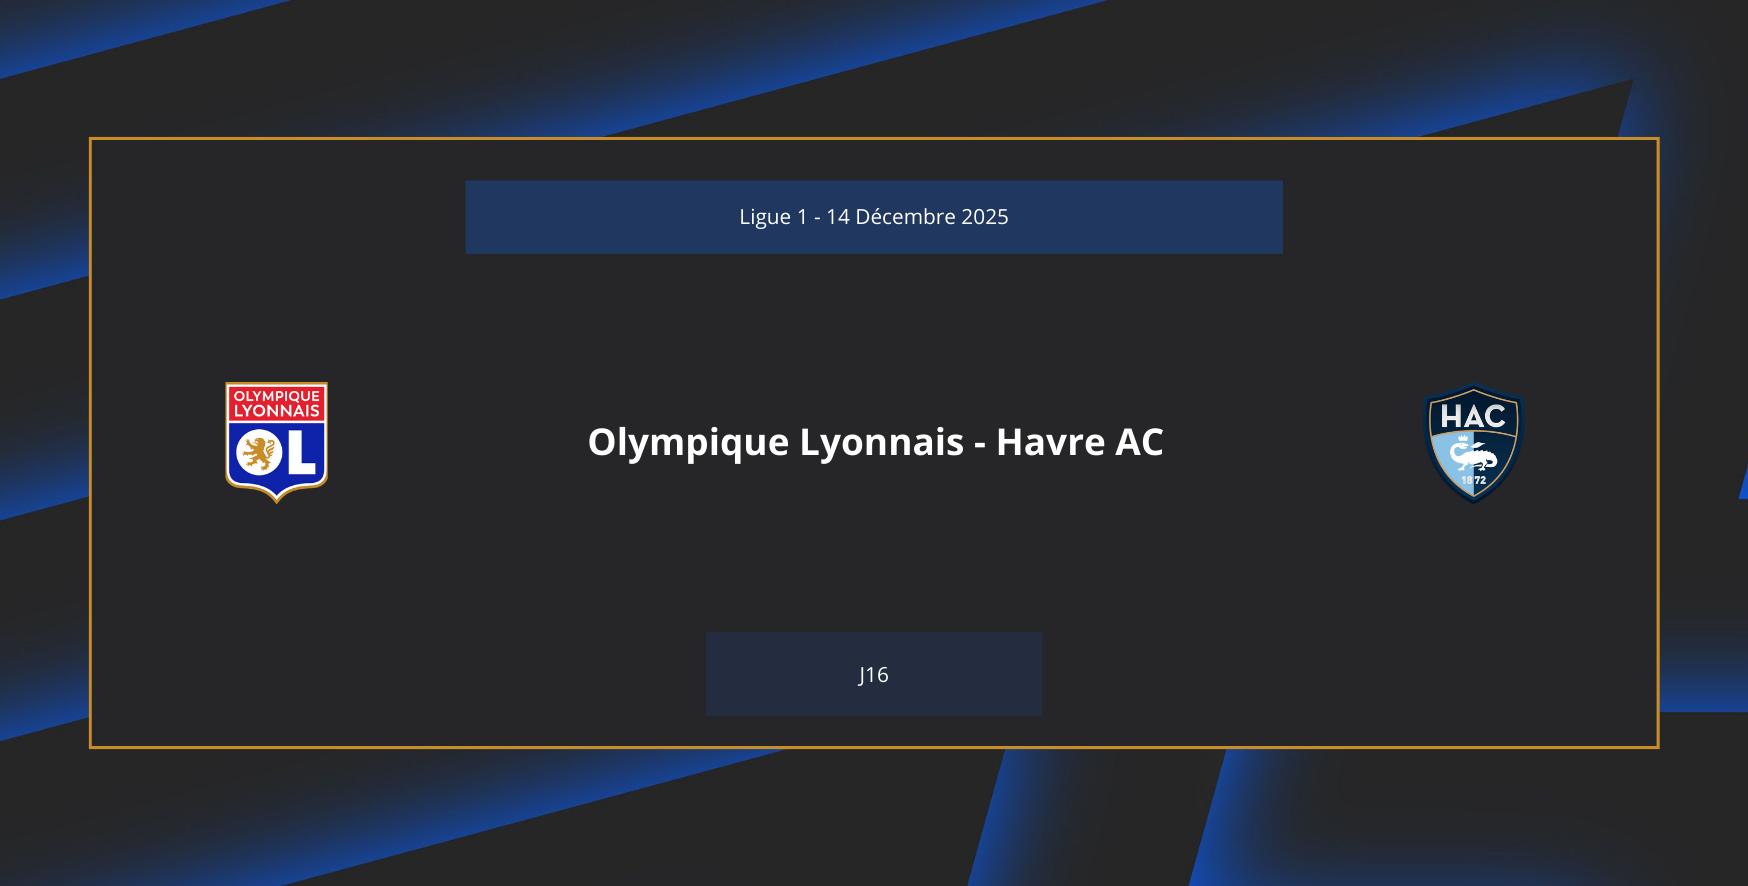
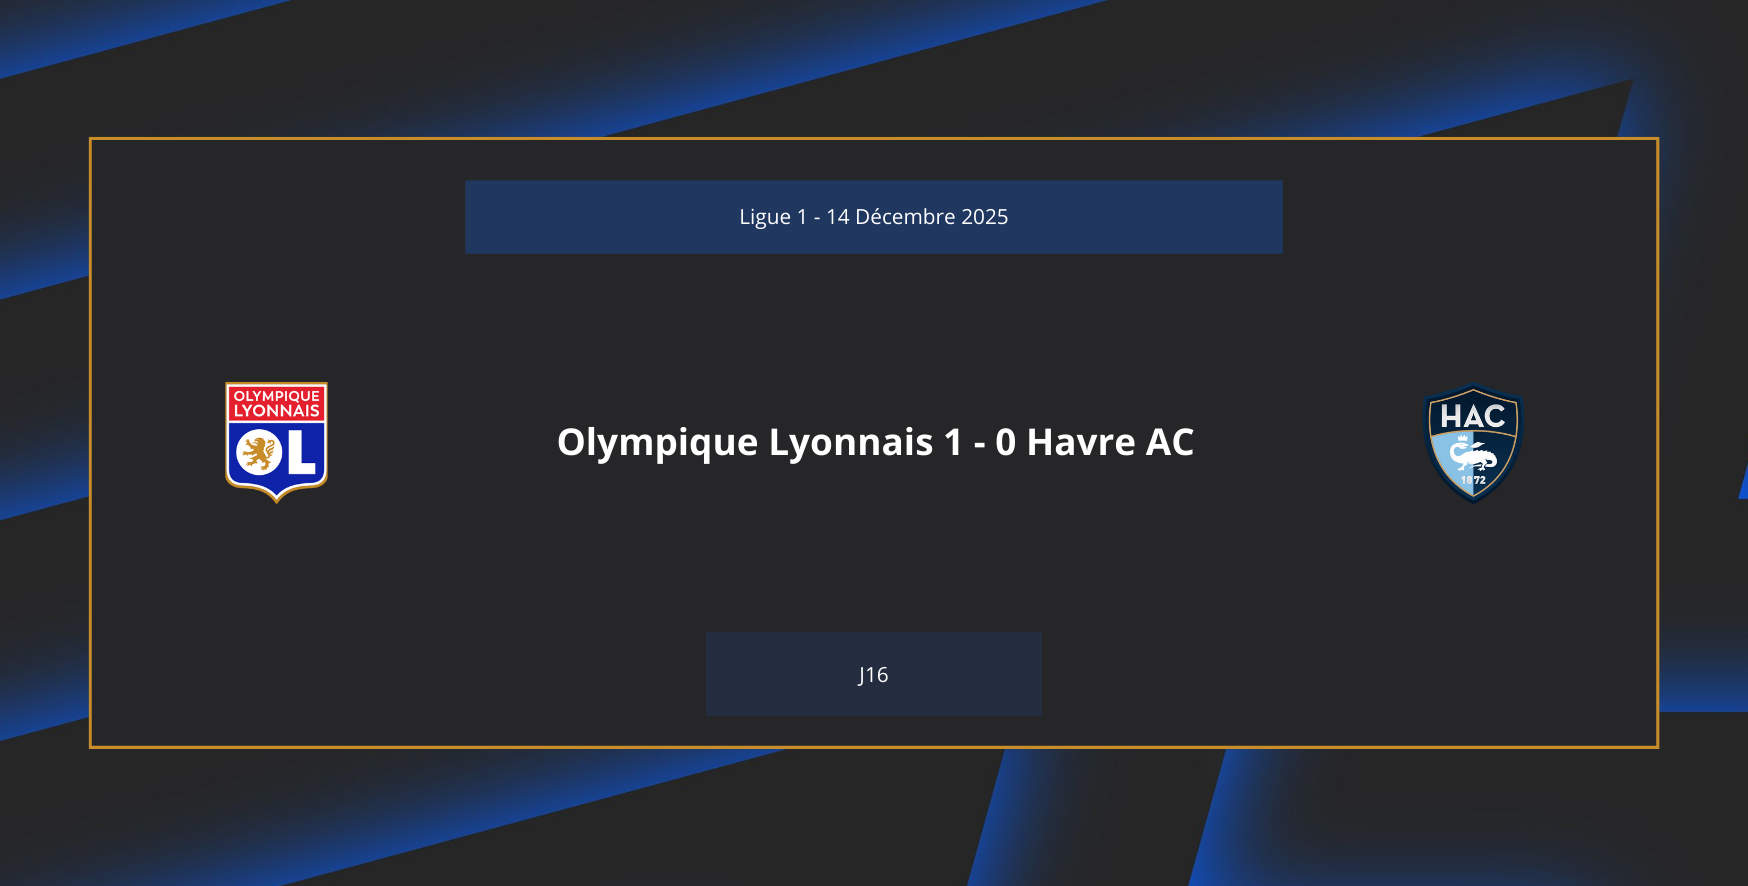
match OL - revoir stat - class. => mettre à jour

Changed region(s): [[0.3089, 0.4876, 0.6796, 0.5181], [0.8341, 0.5181, 0.865, 0.5485], [0.8341, 0.4571, 0.865, 0.4876]]

diff --git a/match.html b/match.html
@@ -61,6 +61,10 @@
             <p class="note">Note : Les matchs se lisent colonne par colonne</p>
             <section class="regroupement-match">
                 <div class="match">
+                    <img src="/image_match/OL-HAC.png" alt="Olympique Lyonnais-Havre AC">
+                    <a class="bouton">Consulter</a>
+                </div>
+                <div class="match">
                     <img src="/image_match/OL - GAE.png" alt="Olympique Lyonnais-Go Ahead Eagles">
                     <a class="bouton">Consulter</a>
                 </div>
@@ -68,13 +72,13 @@
                     <img src="/image_match/FCL - OL.png" alt="FC Lorien-Olympique Lyonnais">
                     <a class="bouton">Consulter</a>
                 </div>
-                <div class="match">
-                    <img src="/image_match/OL - FCN.png" alt="OL 3 - 0 FC Nante">
-                    <a class="bouton">Consulter</a>
-                </div>
 
                 <details class="bouton-plus-style">
                     <summary class="bouton-plus">Voir plus</summary>
+                    <div class="match">
+                        <img src="/image_match/OL - FCN.png" alt="OL 3 - 0 FC Nante">
+                        <a class="bouton">Consulter</a>
+                    </div>
                     <div class="match">
                         <img src="/image_match/MTA-OL.png" alt="Macabi Tel Aviv 0 - 6 OL">
                         <a class="bouton">Consulter</a>
@@ -154,10 +158,6 @@
             <p class="note">Note : Les matchs se lisent colonne par colonne</p>
             <section class="regroupement-match">
                 <div class="match">
-                    <img src="/image_match/OL-HAC.png" alt="Olympique Lyonnais-Havre AC">
-                    <a class="bouton">Consulter</a>
-                </div>
-                <div class="match">
                         <img src="/image_match/FCSCC-OL.png" alt="FC Saint-Cyr Collonges - OL">
                         <a class="bouton">Consulter</a>
                 </div>
@@ -165,13 +165,13 @@
                     <img src="/image_match/ASM-OL.png" alt="AS Monaco - OL">
                     <a class="bouton">Consulter</a>
                 </div>
+                <div class="match">
+                    <img src="/image_match/OL-SB.png" alt="Olympique Lyonnais- Stade Brestois">
+                    <a class="bouton">Consulter</a>
+                </div>
 
                 <details class="bouton-plus-style">
                     <summary class="bouton-plus">Voir plus</summary>
-                    <div class="match">
-                        <img src="/image_match/OL-SB.png" alt="Olympique Lyonnais- Stade Brestois">
-                        <a class="bouton">Consulter</a>
-                    </div>
                     <div class="match">
                         <img src="/image_match/YB-OL.png" alt="Young Boys - OL">
                         <a class="bouton">Consulter</a>

diff --git a/index.html b/index.html
@@ -62,6 +62,11 @@
                     <section class="bordure">
                         <h3>Dernier Match</h3>
                         <article class="sous_box">
+                            <img src="/image_match/OL-HAC.png" alt="Olympique Lyonnais - Havre AC" width="80%">
+                            <p class="bouton">Voir le match</p>
+                        </article>
+
+                        <article class="sous_box">
                             <img src="/image_match/OL - GAE.png" alt="Olympique Lyonnais - Go Ahead Eagles" width="80%">
                             <p class="bouton">Voir le match</p>
                         </article>
@@ -76,11 +81,6 @@
                             <p class="bouton">Voir le match</p>
                         </article>
 
-                        <article class="sous_box">
-                            <img src="image_match/MTA-OL.png" alt="Macabi Tel Aviv 0 - 6 Olympique Lyonnais" width="80%">
-                            <p class="bouton">Voir le match</p>
-                        </article>
-
                         <a href="match.html" class="bouton-fin">Voir plus de match</a>
                     </section>
                 </div>
@@ -88,15 +88,15 @@
                     <section class="bordure">
                         <h3>Match à venir</h3>
                         <article class="sous_box">
-                            <img src="/image_match/OL-HAC.png" alt="Olympique Lyonnais - Havre AC" width="80%">
-                            <p class="bouton">Voir le match</p>
-                        </article>
-                        <article class="sous_box">
                             <img src="/image_match/FCSCC-OL.png" alt="FC Saint Cyr Collonge - Ol" width="80%">
                             <p class="bouton">Voir le match</p>
                         </article>
                         <article class="sous_box">
                             <img src="/image_match/OL-ASM.png" alt="Olympique Lyonnais - AS Monaco" width="80%">
+                            <p class="bouton">Voir le match</p>
+                        </article>
+                        <article class="sous_box">
+                            <img src="/image_match/Ol-SB.png" alt="Olympique Lyonnais - Stade Brestois" width="80%">
                             <p class="bouton">Voir le match</p>
                         </article>
                         <a href="match.html" class="bouton-fin">Voir plus de match</a>

diff --git a/classements-compétition/compétiton/ligue-1.html b/classements-compétition/compétiton/ligue-1.html
@@ -83,7 +83,7 @@
                 <article class="sous_box">
                     <h5>Meilleurs Buteurs :</h5>
                     <ul>
-                        <li>Pavel Sulc - 5 buts</li>
+                        <li>Pavel Sulc - 6 buts</li>
                         <li>Corentin Tolisso - 3 buts</li>
                         <li>Afonso Moreira - 2 buts</li>
                     </ul>
@@ -91,16 +91,16 @@
                 <article class="sous_box">
                     <h5>Meilleurs Passeurs :</h5>
                     <ul>
-                        <li>Afonso moreira - 3 passes décisives</li>
+                        <li>Afonso moreira - 4 passes décisives</li>
                         <li>Pavel Sulc - 2 passes décisives</li>
-                        <li>Ainsley Maintland-Niles - 5 passes décisives</li>
+                        <li>Ainsley Maintland-Niles - 2 passes décisives</li>
                     </ul>
                 </article>
                 <article class="sous_box">
                     <h5>Titulaires les plus utilisés :</h5>
                     <ul>
-                        <li>Corentin Tolisso - 15 matchs</li>
-                        <li>Moussa Niakhate - 15 matchs</li>
+                        <li>Corentin Tolisso - 16 matchs</li>
+                        <li>Moussa Niakhate - 16 matchs</li>
                         <li>Ainsley Maintland-Niles - 15 matchs</li>
                 </article>
             </div>
@@ -108,12 +108,12 @@
             <div class="section">
                 <h4>Derniers Matchs :</h4>
                 <article class="sous_box">
-                    <img src="/image_match/FCL - OL.png" alt="FC Lorient 1-0 ol" width="80%">
+                    <img src="/image_match/OL-HAC.png" alt="Ol - Havre AC" width="80%">
                     <p class="bouton"><a>Voir le match</a></p>
                 </article>
                 <h4>Prochains Matchs :</h4>
                 <article class="sous_box">
-                    <img src="/image_match/OL-HAC.png" alt="Ol - Havre AC" width="80%">
+                    <img src="/image_match/ASM-OL.png" alt="ASM - Ol" width="80%">
                     <p class="bouton"><a>Voir le match</a></p>
                 </article>
                 <a href="/match.html" class="bouton-fin">Voir tous les matchs</a>
